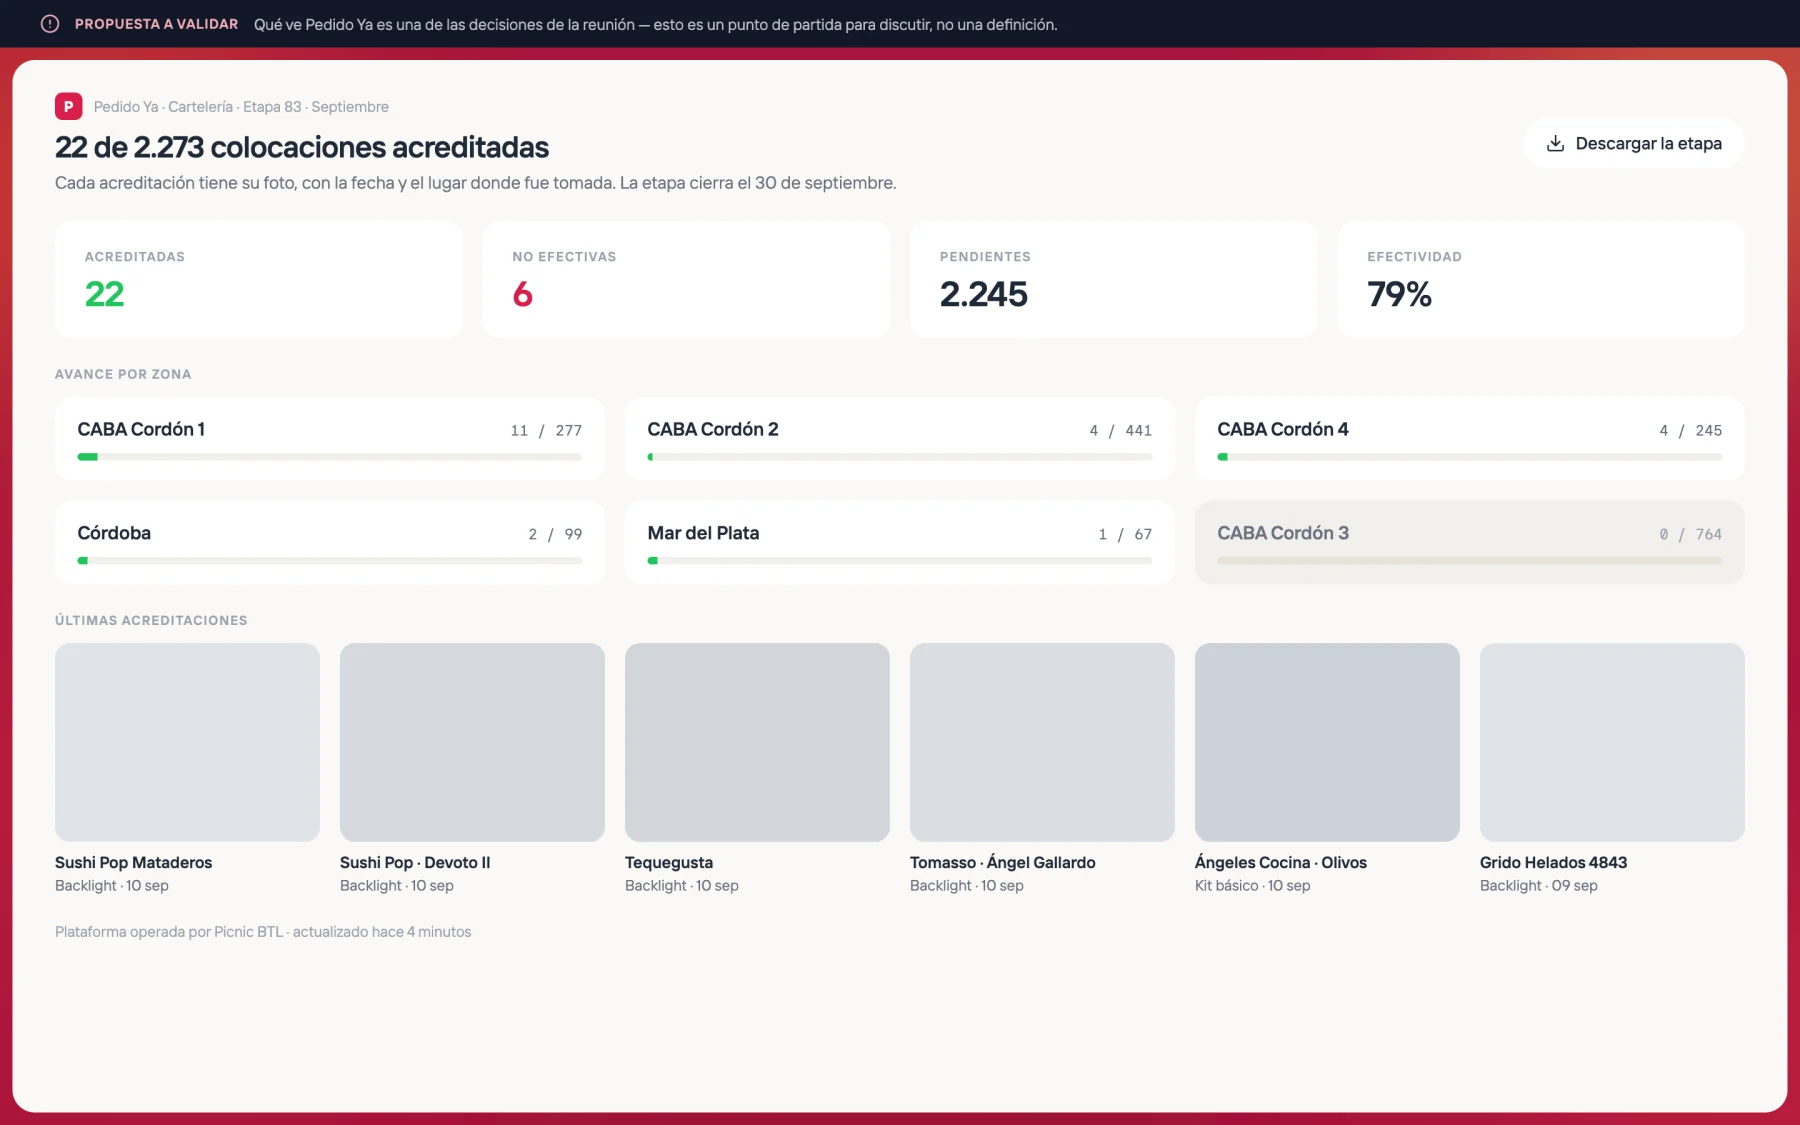
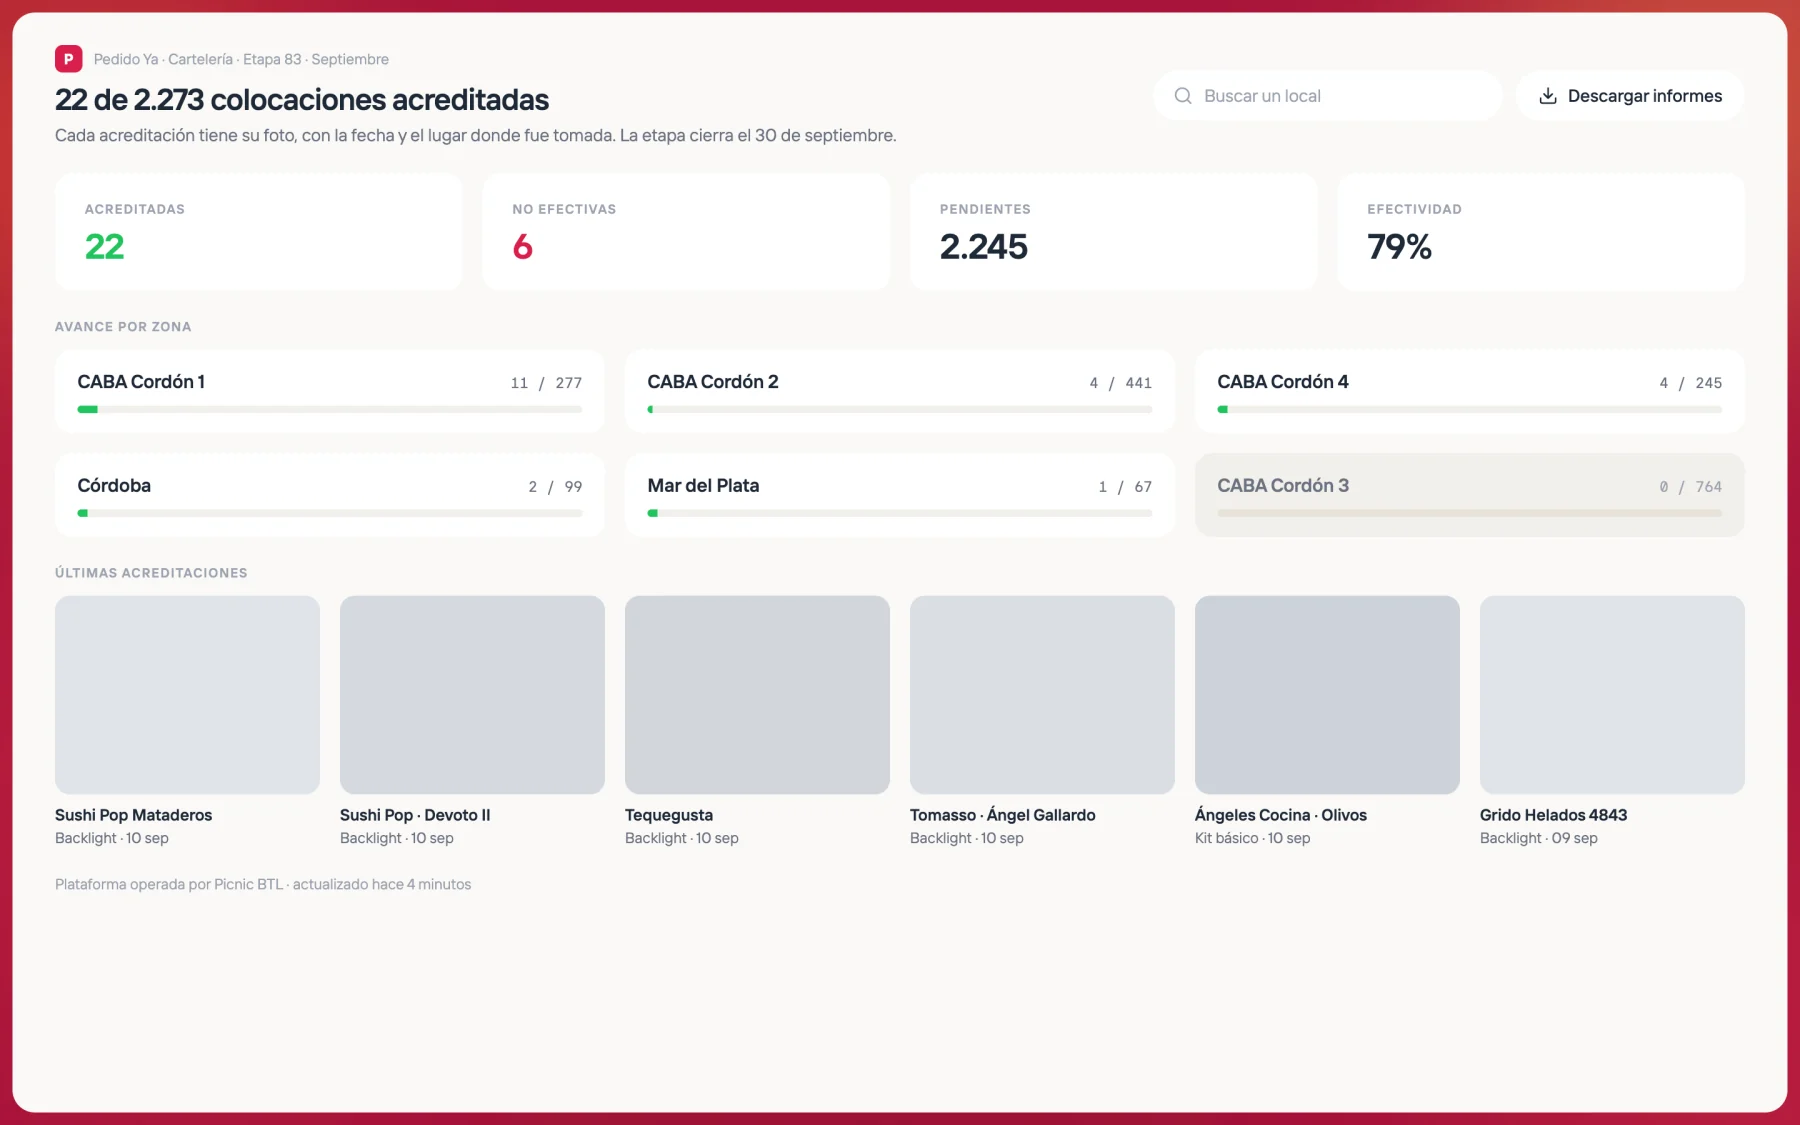
Picnic: la página con las respuestas de Picnic del 11/09
La vista de PedidosYa dejó de ser una propuesta: ve todo el dato duro y
nunca quién, con buscador de locales y descarga de informes. La ventana
de corrección pasa a 7 días hábiles, los motivos a la lista cerrada de
once, y saliente/sticker quedan sólo para el kit básico.

Capturas de zona, cascada, corrector y cliente regeneradas.

Claude-Session: https://claude.ai/code/session_01RxdqvcFH6AqyMabuw1AxqY

diff --git a/src/pages/PicnicPlataforma.tsx b/src/pages/PicnicPlataforma.tsx
@@ -148,9 +148,10 @@ export default function PicnicPlataforma() {
           cierra el panel y se sigue donde se estaba.
         </p>
         <p>
-          Adentro de la zona, cada local muestra si la visita fue efectiva y cómo salió
-          cada material por separado — el saliente puede quedar puesto y el sticker no,
-          y eso queda registrado tal cual.
+          Adentro de la zona, cada local muestra el resultado de su visita. En el kit
+          básico se ve además cómo salió cada material por separado —el saliente puede
+          quedar puesto y el sticker no—; en un backlight, que es un material único, se
+          registra sólo si la visita fue efectiva.
         </p>
         <Pantalla
           src="/picnic/zona.webp"
@@ -169,7 +170,8 @@ export default function PicnicPlataforma() {
         <p>
           Adentro está la prueba completa: las dos fotos, qué verificó el servidor sobre
           ellas —cuándo se tomaron, a qué distancia del local, si esa imagen se usó
-          antes—, el resultado por material y quién la controló.
+          antes—, el resultado y quién la controló. El colocador puede corregirla
+          durante <strong>7 días hábiles</strong> desde que la sube.
         </p>
         <p>
           Abajo, <strong>las etapas anteriores del mismo local</strong>. Es lo que
@@ -206,10 +208,9 @@ export default function PicnicPlataforma() {
           aprueba o se rechaza con el teclado y pasa sola a la siguiente.
         </p>
         <p>
-          Al rechazar, el motivo sale de una lista — la misma que Picnic ya usa, más
-          "local repetido en base de datos" — con un campo libre para lo que no entre en
-          ninguna. Al estar tabulados, después se puede ver en qué zonas se traba el
-          trabajo y por qué.
+          El motivo sale de la lista cerrada de once que nos pasaron, con un comentario
+          libre para lo extraordinario. Al ser una lista y no texto suelto, después se
+          puede ver en qué zonas se traba el trabajo y por qué.
         </p>
         <Pantalla
           src="/picnic/corrector.webp"
@@ -237,20 +238,25 @@ export default function PicnicPlataforma() {
       </TwoColumnSection>
 
       {/* ── Cliente ───────────────────────────────────────────── */}
-      <TwoColumnSection title="Y lo que podría ver PedidosYa" id="cliente">
+      <TwoColumnSection title="Lo que ve PedidosYa" id="cliente">
         <p className="text-lg">
-          Una vista propia, con la marca de PedidosYa, donde ven el avance de la etapa y
-          cada acreditación con su foto, su fecha y su lugar. Sin el detalle interno de
-          la operación.
+          Una vista propia, con su marca, donde ven el avance de la etapa y cada
+          acreditación con su foto, su fecha y su lugar. El dato duro completo: qué se
+          coloca, cuándo y dónde.
         </p>
         <p>
-          <strong>Es una propuesta para discutir, no una definición.</strong> Qué ve el
-          cliente y qué puede hacer es una de las decisiones que quedan abiertas.
+          <strong>Lo único que no ven es quién.</strong> Ni el colocador ni el
+          coordinador aparecen en ninguna pantalla de esta vista — y no es un filtro que
+          se pueda esquivar, el recorte vive en la base de datos.
+        </p>
+        <p>
+          Pueden <strong>buscar un local</strong> y <strong>descargar informes</strong>.
+          Nada más: no aprueban, no comentan y no editan.
         </p>
         <Pantalla
           src="/picnic/cliente.webp"
-          alt="Vista del cliente con el avance de la etapa"
-          pie="Un punto de partida para la vista de PedidosYa, con su propia marca."
+          alt="Vista del cliente con el avance de la etapa y el buscador de locales"
+          pie="La vista de PedidosYa, con su marca, el buscador y la descarga de informes."
         />
       </TwoColumnSection>
 
@@ -262,32 +268,25 @@ export default function PicnicPlataforma() {
         </p>
         <ul className="space-y-2 text-black/80 text-[15px]">
           <li>
-            — <strong>El tercer material:</strong> ¿"chapa" y "saliente" son el mismo, o
-            son dos? Y el bicicletero, ¿sigue en uso?
+            — <strong>"No quiere o puede perforable"</strong> no está en la lista de once
+            motivos, y hoy es de los que más se usan en la operación. ¿Queda afuera a
+            propósito, o lo sumamos?
           </li>
           <li>
-            — <strong>Los motivos:</strong> la lista actual dice por qué no se pudo
-            colocar. ¿El rechazo de una foto usa esos mismos motivos, o conviene una
-            lista aparte?
+            — <strong>La clave de una zona:</strong> hoy es una sola para toda la zona, así
+            que quien la tiene abre todos sus locales y el sistema no sabe quién entró.
+            Dejarla abierta resuelve el vencimiento; ¿querés además una clave por persona?
           </li>
           <li>
-            — <strong>El coordinador:</strong> hasta dónde llega su territorio, y si
-            asigna él los locales o lo hace Picnic central.
-          </li>
-          <li>
-            — <strong>El link de una zona:</strong> hoy la clave abre la zona completa
-            para quien la tenga. ¿La dejamos así, le ponemos vencimiento, o pasa a ser
-            una clave por persona?
+            — <strong>El coordinador:</strong> hasta dónde llega su territorio, y si asigna
+            él los locales o lo hace Picnic central.
           </li>
           <li>
             — <strong>Rebranding y locales nuevos:</strong> ¿los quieren ver separados en
-            los reportes?
+            los informes, y sobre cuál se factura?
           </li>
           <li>
-            — <strong>La vista de PedidosYa:</strong> qué ven y qué pueden hacer.
-          </li>
-          <li>
-            — <strong>Una casilla nueva a nombre de Picnic</strong>, del tipo
+            — <strong>La casilla a nombre de Picnic</strong>, del tipo
             plataforma@wearepicnic.com, para abrir a su nombre las cuentas de los
             servicios de la plataforma.
           </li>
